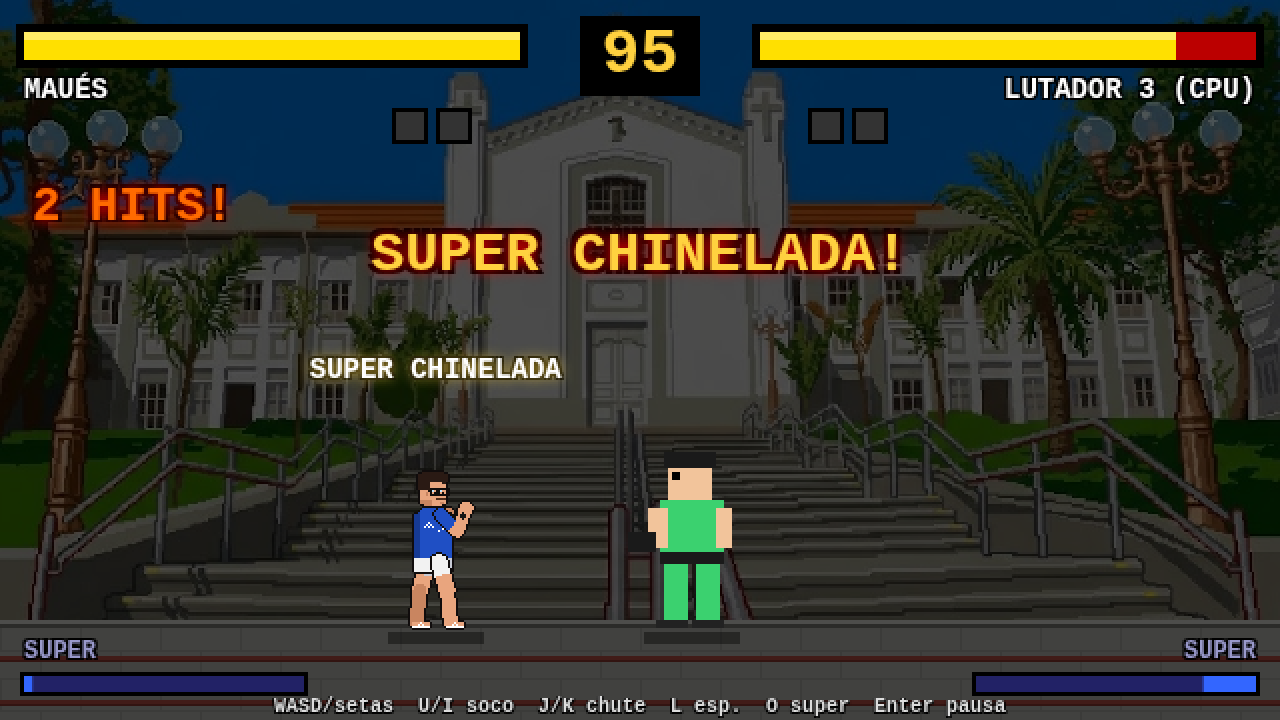
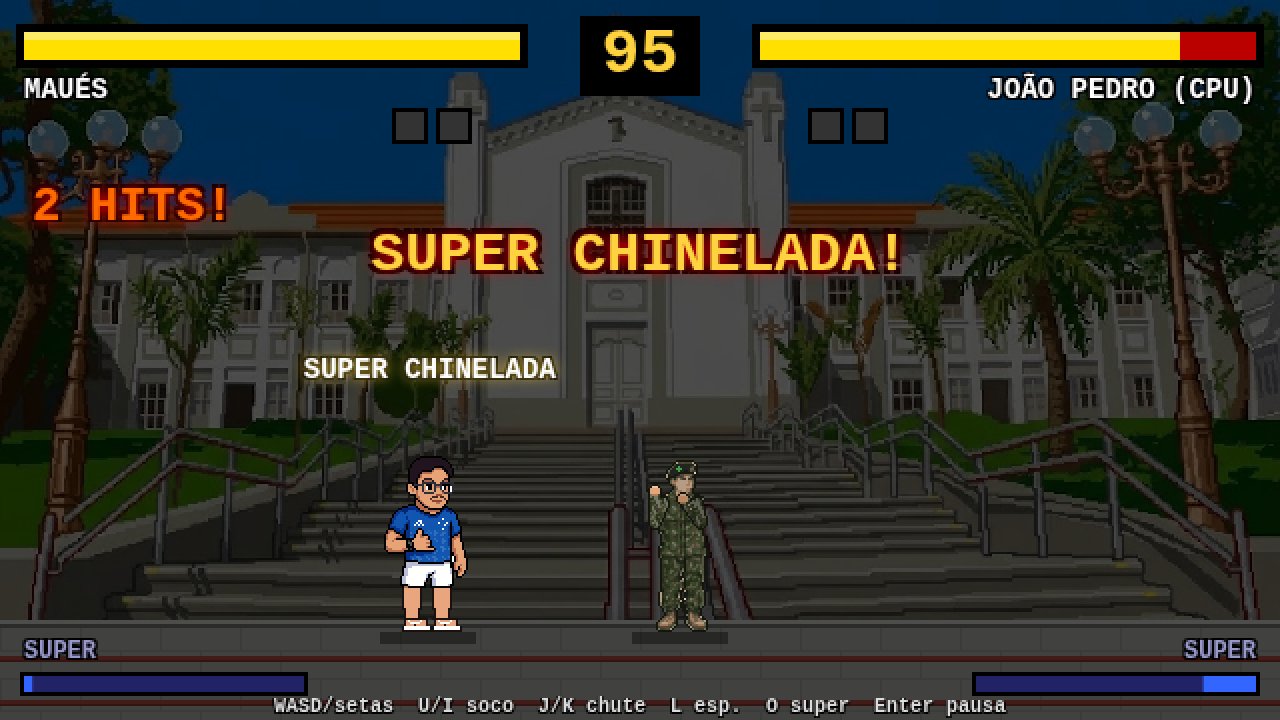
Replace the game with sprite-part fighters.
Drop js/puppet.js, add assets/joao/ and the Maués punch sprite, and update the scripts and screenshots. .nojekyll stays so GitHub Pages serves the files as-is.

diff --git a/js/fighter.js b/js/fighter.js
@@ -194,7 +194,7 @@ class Fighter {
     let f = this.facing; const pose = this.pose();
     if (pose === "spin" && Math.floor(this.anim / 4) % 2) f = -f;
     g.fillStyle = "#0006"; g.fillRect(x - 12 * s, (this.inFight ? GROUND : y) + 1, 24 * s, 3);
-    if (this.cfg.puppet) return this.drawPuppet(g, x, y, f, pose);
+    if (this.cfg.parts) return this.drawParts(g, x, y, f, pose);
     if (this.img && this.cfg.spriteLegs) return this.drawLegged(g, x, y, f, pose);
     g.save(); g.translate(x, y); g.scale(f * s, s); this.drawProc(g, pose); g.restore();
   }
@@ -228,12 +228,31 @@ class Fighter {
     }
     if (pose === "upper" && this.anim % 4 < 2) { g.fillStyle = ac + "66"; g.fillRect(-14, -60, 6, 50); }
   }
-  drawPuppet(g, x, y, f, pose) {
-    const v = pose === "walk" ? Math.floor(this.anim / 8) % 2 : pose === "idle" ? Math.floor(this.anim / 16) % 2 : 0;
-    const pp = pose === "fall" ? "down" : pose, im = Puppet.frame(this.cfg.puppet, pp, v, this.m && this.m.heavy);
+  static load(src) { const c = Fighter.cache[src] || (Fighter.cache[src] = Object.assign(new Image(), { src })); return c.complete && c.naturalWidth ? c : null; }
+  // Lutador por partes (pixels da arte original): tronco por pose + pernas que giram no quadril
+  drawParts(g, x, y, f, pose) {
+    const b = this.cfg.parts, I = n => Fighter.load(b + n + ".png");
+    const win = I("win"), legL = I("leg_l"), legR = I("leg_r");
+    const up = I(["punch", "cpunch", "jpunch"].includes(pose) ? "punch" : ["upper", "cupper"].includes(pose) ? "upper" : ["block", "cblock"].includes(pose) ? "block" : "guard");
+    if (!win || !legL || !legR || !up) return;
     g.save(); g.translate(x, y); g.scale(f * 0.5, 0.5); if (this.flash % 4 > 1) g.globalAlpha = 0.5;
-    if (pose === "down" || pose === "fall") { g.rotate(pose === "fall" ? -1.0 : -Math.PI / 2); g.translate(8, 0); }
-    g.drawImage(im, -Puppet.HX, -Puppet.FEET);
+    if (pose === "down" || pose === "fall") { g.rotate(pose === "fall" ? -1.0 : -Math.PI / 2); g.drawImage(win, -win.width / 2 + 6, -win.height + 4); g.restore(); return; }
+    if (pose === "win") { g.drawImage(win, -win.width / 2, -win.height); g.restore(); return; }
+    const LH = legL.height, ox = -15, heavy = this.m && this.m.heavy;
+    let hipY = -LH + 2, rot = 0, dx = 0, sy = 1, rl = 0, rr = 0;
+    const crouchP = ["crouch", "cpunch", "ckick", "cblock", "cupper"].includes(pose), air = ["jump", "jpunch", "jkick", "upper"].includes(pose);
+    if (crouchP) { sy = 0.6; hipY = -LH * 0.6 + 2; }
+    if (air) { sy = 0.8; rl = -0.35; rr = -0.75; hipY = -LH + 2; }
+    if (pose === "walk") { const w = Math.floor(this.anim / 7) % 2 ? 0.2 : -0.2; rl = w; rr = -w; }
+    if (pose === "kick" || pose === "spin") { rr = heavy ? -1.85 : -1.5; rl = 0.12; rot = -0.15; }
+    if (pose === "jkick") rr = -1.1;
+    if (pose === "ckick") { rr = -1.5; sy = 0.6; }
+    if (pose === "hit") { dx = -5; rot = -0.12; }
+    if (["punch", "cpunch", "jpunch"].includes(pose)) { dx = 3; rot = 0.05; }
+    const leg = (im, lx, r, s2) => { g.save(); g.translate(lx + im.width / 2, hipY); g.rotate(r); g.scale(1, s2); g.drawImage(im, -im.width / 2, 0); g.restore(); };
+    g.translate(dx, 0);
+    leg(legL, ox + 1, rl, sy); leg(legR, ox + 12, rr, rr < -1 ? 1 : sy);
+    g.save(); g.translate(0, hipY + 2); g.rotate(rot); g.drawImage(up, ox, -up.height); g.restore();
     if (pose === "upper" && this.anim % 4 < 2) { g.fillStyle = this.cfg.accent + "88"; g.fillRect(-30, -110, 12, 90); }
     g.restore();
   }
@@ -253,7 +272,8 @@ class Fighter {
     if (pose === "down" || pose === "fall") { g.rotate(pose === "fall" ? -1.1 : -Math.PI / 2); g.drawImage(im, -ih / 2 + 10, ox - 10); g.restore(); return; }
     let ly = top + ih, rot = 0; const bob = pose === "idle" ? Math.floor(this.anim / 15) % 2 : 0, L = ox + legX[0], Rr = ox + legX[1];
     const lean = ["punch", "cpunch", "jpunch"].includes(pose), crouchP = ["crouch", "cpunch", "ckick", "cblock", "cupper"].includes(pose);
-    if (lean) { g.translate(8, 0); rot = 0.08; }
+    const punchIm = lean && this.cfg.punchSprite ? Fighter.load(this.cfg.punchSprite) : null;
+    if (lean) { g.translate(punchIm ? 3 : 8, 0); rot = punchIm ? 0.03 : 0.08; }
     if (pose === "hit") { g.translate(-5, 0); rot = -0.12; }
     if (pose === "upper" || pose === "win" || pose === "cupper") rot = -0.08;
     if (crouchP) { ly += 12; leg(L - 2, ly, LEN - 12); if (pose === "ckick") hLeg(Rr + 5, ly + LEN - 6); else leg(Rr + 2, ly, LEN - 12); }
@@ -262,8 +282,8 @@ class Fighter {
     else if (pose === "kick" || pose === "spin") { leg(L - 4, ly, LEN); rot = -0.18; hLeg(Rr + 5, ly + 2); }
     else if (pose === "walk") { const w = Math.floor(this.anim / 7) % 2 ? 3 : -3; leg(L + w, ly - (w > 0 ? 2 : 0), LEN); leg(Rr - w, ly - (w < 0 ? 2 : 0), LEN); }
     else { leg(L, ly, LEN); leg(Rr, ly, LEN); }
-    g.save(); g.translate(0, ly + bob); g.rotate(rot); g.drawImage(im, ox, -ih); g.restore();
-    if (lean && this.m) { const a = this.cfg.accent; R(a, iw / 2 + 4, ly - ih + 30, 10, 2); R(a, iw / 2 + 8, ly - ih + 36, 8, 2); R("#fff", iw / 2 + 2, ly - ih + 24, 6, 2); }
+    g.save(); g.translate(0, ly + bob); g.rotate(rot); g.drawImage(punchIm || im, ox, -ih); g.restore();
+    if (lean && this.m && !punchIm) { const a = this.cfg.accent; R(a, iw / 2 + 4, ly - ih + 30, 10, 2); R(a, iw / 2 + 8, ly - ih + 36, 8, 2); R("#fff", iw / 2 + 2, ly - ih + 24, 6, 2); }
     if (pose === "block" || pose === "cblock") { g.globalAlpha = 0.6; R("#7fd8ff", iw / 2 + 2, ly - ih + 14, 4, 40); g.globalAlpha = 1; }
     if (pose === "upper" && this.anim % 4 < 2) { g.fillStyle = this.cfg.accent + "88"; g.fillRect(-30, -110, 12, 90); }
     g.restore();

diff --git a/js/characters.js b/js/characters.js
@@ -1,15 +1,16 @@
 // ===== CONFIGURAÇÃO DOS PERSONAGENS =====
 // name: nome | color/accent: cores | stats (1-10): speed (velocidade), power (força), health (vida)
-// puppet: boneco pixel-art desenhado em js/puppet.js ("maues" ou "joao").
+// parts: pasta com sprites por partes (guard/punch/upper/block = tronco, leg_l/leg_r = pernas, win = corpo inteiro).
+// punchSprite: versão do tronco com o braço esticado (usada no soco).
 // sprite: caminho da imagem (null = desenho procedural). spriteLegs: true se a imagem é só do tronco (o jogo desenha as pernas).
 // specials: nomes dos golpes especiais (os comandos são iguais para todos).
 // quote: frase de vitória. boss: true = Chefão (último da escada do Arcade; selecionável só no Versus). scale: tamanho do desenho.
 const CHARACTERS = [
   { name: "Maués", color: "#1f4fc4", accent: "#ffd23f", stats: { speed: 6, power: 7, health: 6 },
-    puppet: "maues", sprite: null, projectile: "chinelo",
+    sprite: "assets/maues.png", spriteLegs: true, skin: "#e9a57e", legX: [9, 24], punchSprite: "assets/maues_punch.png", projectile: "chinelo",
     specials: { fireball: "CHINELADA", dp: "GANCHO DO MAUÉS", spin: "FURACÃO DE CHINELO", super: "SUPER CHINELADA" },
     quote: "Chinelo branco não perdoa ninguém!" },
-  { name: "João Pedro", color: "#4a5530", accent: "#3fa34d", stats: { speed: 4, power: 8, health: 9 }, puppet: "joao", sprite: null, projectile: "granada",
+  { name: "João Pedro", color: "#4a5530", accent: "#3fa34d", stats: { speed: 4, power: 8, health: 9 }, sprite: null, parts: "assets/joao/", projectile: "granada",
     specials: { fireball: "GRANADA", dp: "GANCHO DE COMANDO", spin: "RAJADA DE COTURNO", super: "BOMBARDEIO TÁTICO" },
     quote: "Missão cumprida. Próximo da fila!" },
   { name: "Lutador 3", color: "#3bd16f", accent: "#1a1a1a", stats: { speed: 4, power: 9, health: 8 }, sprite: null,

diff --git a/index.html b/index.html
@@ -13,5 +13,5 @@ canvas{image-rendering:pixelated;image-rendering:crisp-edges;background:#000}
 <div id="touch"><div><span class="tb" data-k="ArrowLeft">◀</span><span class="tb" data-k="ArrowUp">▲</span><span class="tb" data-k="ArrowDown">▼</span><span class="tb" data-k="ArrowRight">▶</span></div>
 <div><span class="tb" data-k="KeyU">SF</span><span class="tb" data-k="KeyI">SF+</span><span class="tb" data-k="KeyJ">CF</span><span class="tb" data-k="KeyK">CF+</span><span class="tb" data-k="KeyL">ESP</span><span class="tb" data-k="KeyO">SUP</span><span class="tb" data-k="Enter">OK</span></div></div>
 <script src="js/characters.js"></script><script src="js/stages.js"></script><script src="js/audio.js"></script><script src="js/input.js"></script>
-<script src="js/puppet.js"></script><script src="js/fighter.js"></script><script src="js/ai.js"></script><script src="js/game.js"></script>
+<script src="js/fighter.js"></script><script src="js/ai.js"></script><script src="js/game.js"></script>
 </body></html>

diff --git a/README.md b/README.md
@@ -46,7 +46,8 @@ pode receber no máximo 2 golpes de "juggle" (gancho/super). Melhor de 3 rounds,
 
 Campos de cada lutador: `name`, `color`/`accent`, `stats` (1-10), `specials` (nomes), `quote` (frase de vitória), `projectile`
 (`chinelo`, `granada` ou padrão), `boss`, `scale`, e o visual:
-- `puppet: "maues"` / `"joao"`: bonecos pixel-art desenhados pixel a pixel em `js/puppet.js` (todas as poses: guarda, andar, soco, chute, agachar, pulo, gancho, apanhar, K.O., vitória). Cores e detalhes (óculos, bigode, camisa azul com detalhes brancos, short branco, relógio, chinelos; boina com estrela verde, camuflado, emblema, coturnos) ficam em `STYLES` nesse arquivo.
+- `sprite` + `spriteLegs: true` + `punchSprite` (Maués): tronco com os pixels exatos da arte original (`assets/maues.png`), pernas e chinelos brancos desenhados pelo jogo, e `assets/maues_punch.png` com o braço esticado no mesmo estilo para os socos.
+- `parts: "assets/joao/"` (João Pedro): pixels da arte original divididos em partes — tronco em guarda/soco/gancho/defesa (braços de luta pintados no mesmo camuflado), pernas `leg_l`/`leg_r` que giram no quadril para chutes, e `win.png` (braços cruzados originais) para vitória.
 - `sprite: "assets/arquivo.png"`: imagem própria (fundo transparente, virada para a direita). Com `spriteLegs: true` a imagem é só do tronco e o jogo desenha pernas.
 - nenhum dos dois: boneco procedural simples (como Lutador 3/4).
 
@@ -56,7 +57,6 @@ Campos de cada lutador: `name`, `color`/`accent`, `stats` (1-10), `specials` (no
 ## Estrutura
 - `js/input.js` – teclado/toque, mapas `CONTROLS` (P1, P2) e leitura de comandos com buffer (meias-luas, gancho)
 - `js/fighter.js` – golpes (tabela `MOVES`), hit/block stun, combos, agarrão, knockdown, desenho
-- `js/puppet.js` – bonecos pixel-art (Maués, João Pedro)
 - `js/ai.js` – CPU (anti-aéreo, defesa alta/baixa, combos, especiais, super; fica mais forte a cada luta do Arcade)
 - `js/audio.js` – sons chiptune, "voz" sintética do locutor (ROUND, FIGHT, K.O., PERFECT) e música — tudo gerado por WebAudio
 - `js/game.js` – telas (título, seleção, cenário, VS, luta, pausa, frase de vitória, continue, final), HUD e loop
